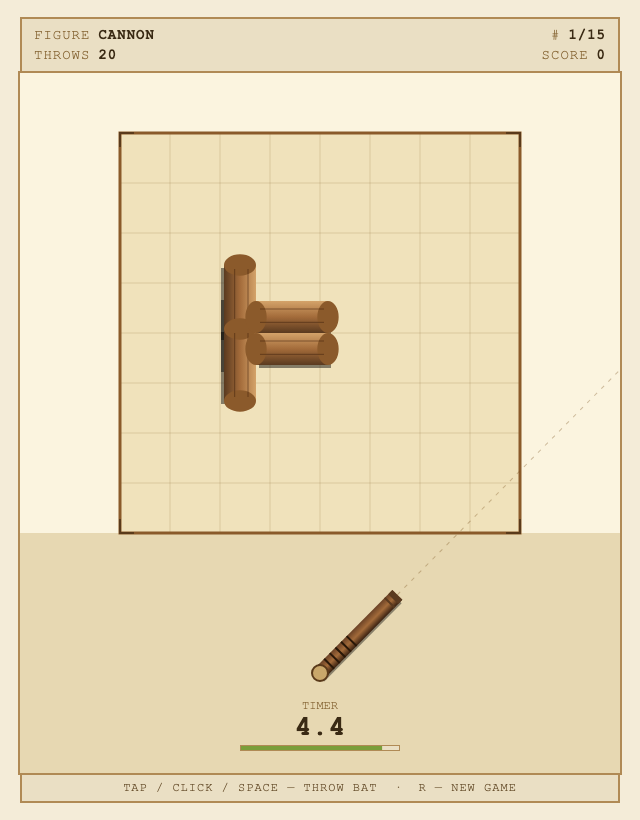
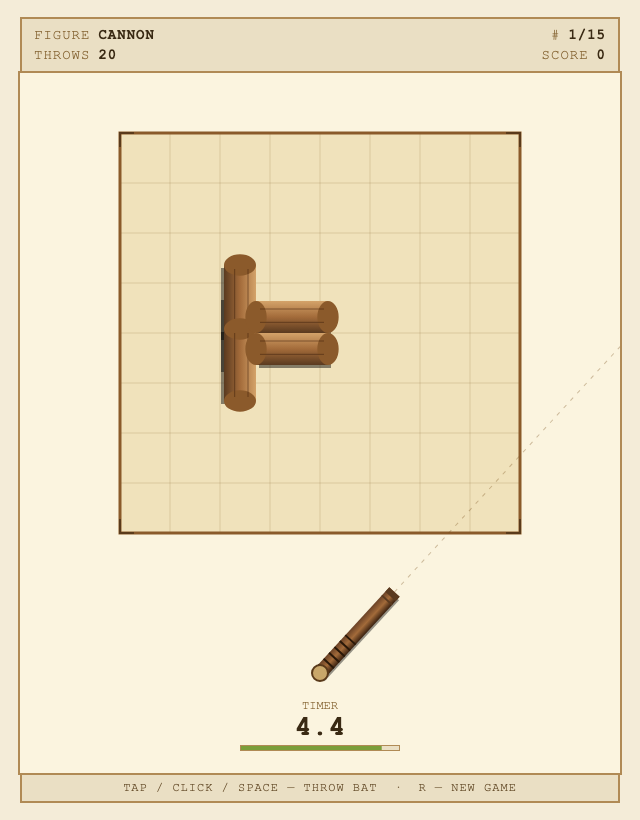
Remove darker ground band so bat area matches the field surround

Changed region(s): [[0.0312, 0.6402, 0.9688, 0.9451]]

diff --git a/index.html b/index.html
@@ -903,10 +903,6 @@ function render() {
   ctx.fillStyle = "#fbf4df";
   ctx.fillRect(0, 0, W, H);
 
-  // ground area below square
-  ctx.fillStyle = "#e7d8b2";
-  ctx.fillRect(0, SQ.y + SQ.h, W, H - (SQ.y + SQ.h));
-
   drawSquare();
   drawThrowLine();
   for (const p of pins) drawPin(p);